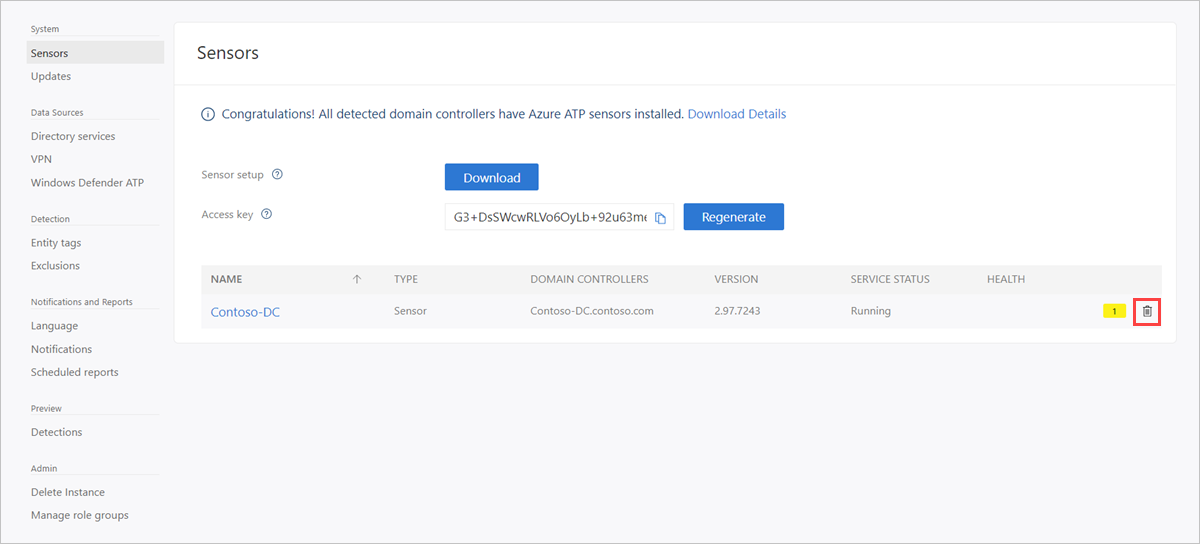
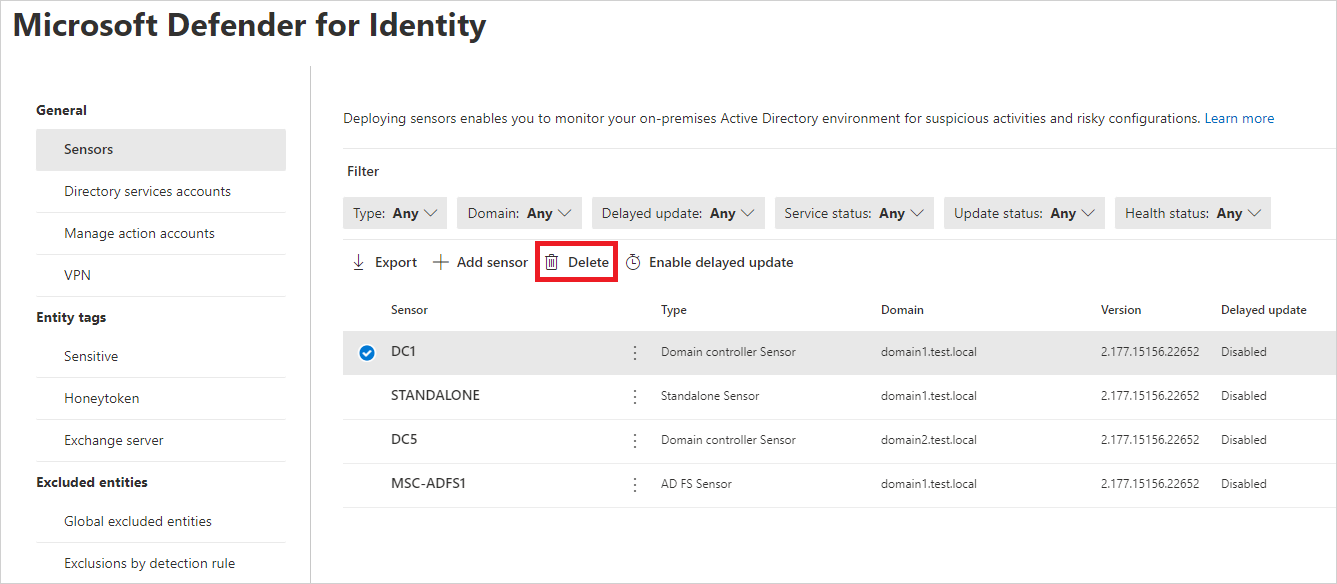
april 7 update 2

diff --git a/ATPDocs/health-alerts.md b/ATPDocs/health-alerts.md
@@ -28,7 +28,7 @@ The [!INCLUDE [Product long](includes/product-long.md)] Health Center lets you k
 
 |Alert|Description|Resolution|Severity|
 |----|----|----|----|
-|The credentials for the directory services user account are incorrect.|This impacts sensors' ability to detect activities using LDAP queries against domain controllers.|- For a **standard** AD accounts: Verify that the username, password, and domain in the **Directory services** configuration page are correct.<br>- For **group Managed Service Accounts:** Verify that the username and domain in the **Directory Services** configuration page are correct. Also check all the other **gMSA account** prerequisites described on the [Connect to your Active Directory Forest](install-step2.md#prerequisites) page.|Medium|
+|The credentials for the directory services user account are incorrect.|This impacts sensors' ability to detect activities using LDAP queries against domain controllers.|- For a **standard** AD accounts: Verify that the username, password, and domain in the **Directory services** configuration page are correct.<br>- For **group Managed Service Accounts:** Verify that the username and domain in the **Directory Services** configuration page are correct. Also check all the other **gMSA account** prerequisites described on the [Directory Service account recommendations](directory-service-accounts.md) page.|Medium|
 
 ## Low success rate of active name resolution
 
@@ -46,19 +46,19 @@ The [!INCLUDE [Product long](includes/product-long.md)] Health Center lets you k
 
 |Alert|Description|Resolution|Severity|
 |----|----|----|----|
-|The read-only user password, used to perform resolution of entities against Active Directory, is about to expire in less than 30 days.|If the password for this user expires, all the [!INCLUDE [Product short](includes/product-short.md)] sensors stop running and no new data is collected.|[Change the domain connectivity password](modifying-config-dcpassword.md) and then update the password in the [!INCLUDE [Product short](includes/product-short.md)] portal.|Medium|
+|The read-only user password, used to perform resolution of entities against Active Directory, is about to expire in less than 30 days.|If the password for this user expires, all the [!INCLUDE [Product short](includes/product-short.md)] sensors stop running and no new data is collected.|Change the domain connectivity password and then [update the Directory Service account](directory-service-accounts.md#configure-directory-service-account-in-microsoft-365-defender) password.|Medium|
 
 ## Read-only user password expired
 
 |Alert|Description|Resolution|Severity|
 |----|----|----|----|
-|The read-only user password, used to get directory data, expired.|All the [!INCLUDE [Product short](includes/product-short.md)] sensors stop running (or will stop running soon) and no new data is collected.|[Change the domain connectivity password](modifying-config-dcpassword.md) and then update the password in the [!INCLUDE [Product short](includes/product-short.md)] portal.|High|
+|The read-only user password, used to get directory data, expired.|All the [!INCLUDE [Product short](includes/product-short.md)] sensors stop running (or will stop running soon) and no new data is collected.|Change the domain connectivity password and then [update the Directory Service account](directory-service-accounts.md#configure-directory-service-account-in-microsoft-365-defender) password.|High|
 
 ## Sensor outdated
 
 |Alert|Description|Resolution|Severity|
 |----|----|----|----|
-|A [!INCLUDE [Product short](includes/product-short.md)] sensor is outdated.|A [!INCLUDE [Product short](includes/product-short.md)] sensor is running a version that can't communicate with the [!INCLUDE [Product short](includes/product-short.md)] cloud infrastructure.|Manually update the sensor and check to see why the sensor isn't automatically updating. If this doesn't work, download the latest sensor installation package and uninstall and reinstall the sensor. For more information, see [Installing the [!INCLUDE [Product short](includes/product-short.md)] sensor](install-step4.md).|Medium|
+|A [!INCLUDE [Product short](includes/product-short.md)] sensor is outdated.|A [!INCLUDE [Product short](includes/product-short.md)] sensor is running a version that can't communicate with the [!INCLUDE [Product short](includes/product-short.md)] cloud infrastructure.|Manually update the sensor and check to see why the sensor isn't automatically updating. If this doesn't work, download the latest sensor installation package and uninstall and reinstall the sensor. For more information, see [Download the Microsoft Defender for Identity sensor](download-sensor.md) and [Install the Microsoft Defender for Identity sensor](install-sensor.md).|Medium|
 
 ## Sensor reached a memory resource limit
 
@@ -76,7 +76,7 @@ The [!INCLUDE [Product long](includes/product-long.md)] Health Center lets you k
 
 |Alert|Description|Resolution|Severity|
 |----|----|----|----|
-|There has been no communication from the [!INCLUDE [Product short](includes/product-short.md)] sensor. The default time span for this alert is 5 minutes.|Network traffic is no longer captured by the network adapter on the [!INCLUDE [Product short](includes/product-short.md)] sensor. This impacts ATA's ability to detect suspicious activities, since network traffic won't be able to reach the [!INCLUDE [Product short](includes/product-short.md)] cloud service.|Check that the port used for the communication between the [!INCLUDE [Product short](includes/product-short.md)] sensor and [!INCLUDE [Product short](includes/product-short.md)] cloud service is not blocked by any routers or firewalls.|Medium|
+|There has been no communication from the [!INCLUDE [Product short](includes/product-short.md)] sensor. The default time span for this alert is 5 minutes.|Network traffic is no longer captured by the network adapter on the [!INCLUDE [Product short](includes/product-short.md)] sensor. This impacts Defender for Identity's ability to detect suspicious activities, since network traffic won't be able to reach the [!INCLUDE [Product short](includes/product-short.md)] cloud service.|Check that the port used for the communication between the [!INCLUDE [Product short](includes/product-short.md)] sensor and [!INCLUDE [Product short](includes/product-short.md)] cloud service is not blocked by any routers or firewalls.|Medium|
 
 ## Some domain controllers are unreachable by a sensor
 

diff --git a/ATPDocs/uninstall-sensor.md b/ATPDocs/uninstall-sensor.md
@@ -1,7 +1,7 @@
 ---
 title: Uninstall Microsoft Defender for Identity sensor
 description: This article describes how to uninstall the Microsoft Defender for Identity sensor from domain controllers.
-ms.date: 12/22/2020
+ms.date: 04/07/2022
 ms.topic: how-to
 ---
 
@@ -17,7 +17,7 @@ This article describes how to uninstall the [!INCLUDE [Product long](includes/pr
 
 The following steps describe how to uninstall a sensor from a domain controller.
 
-1. Sign in to the domain controller with local administrator privileges.
+1. Sign in to the domain controller with administrative privileges.
 1. From the Windows **Start** menu, select **Settings** > **Control Panel** > **Add/ Remove Programs**.
 1. Select the sensor installation, select **Uninstall**, and follow the instructions to remove the sensor.
 
@@ -25,8 +25,8 @@ The following steps describe how to uninstall a sensor from a domain controller.
 
 This scenario can occur when a domain controller was deleted without first uninstalling the sensor, and the sensor still appears in the [!INCLUDE [Product short](includes/product-short.md)] portal.
 
-1. In the [!INCLUDE [Product short](includes/product-short.md)] portal, go to **Configuration** and under the **System** section, select **Sensors**.
-1. Locate the orphaned sensor and, at the end of the row, select **Delete** (trash can icon).
+1. In [Microsoft 365 Defender](https://security.microsoft.com), go to **Settings** and then **Identities**. Select the **Sensors** tab, which displays all your Defender for Identity sensors.
+1. Locate the orphaned sensor and select **Delete** (trash can icon).
 
     ![Delete orphaned [!INCLUDE [Product short.](includes/product-short.md)] sensor from sensors page](media/delete-orphaned-sensor.png)
 
@@ -34,9 +34,9 @@ This scenario can occur when a domain controller was deleted without first unins
 
 This scenario may occur after an in-place sensor upgrade, and the sensor appears twice in the [!INCLUDE [Product short](includes/product-short.md)] portal.
 
-1. In the [!INCLUDE [Product short](includes/product-short.md)] portal, go to **Configuration** and under the **System** section, select **Sensors**.
-1. Locate the orphaned sensor and, at the end of the row, select **Delete** (trash can icon).
+1. In [Microsoft 365 Defender](https://security.microsoft.com), go to **Settings** and then **Identities**. Select the **Sensors** tab, which displays all your Defender for Identity sensors.
+1. Locate the orphaned sensor and select **Delete** (trash can icon).
 
-## See Also
+## See also
 
-- [Uninstall the [!INCLUDE [Product short](includes/product-short.md)] sensor silently](silent-installation.md#uninstall-the-defender-for-identity-sensor-silently)
+- [Manage and update Microsoft Defender for Identity sensors](sensor-settings.md)

diff --git a/ATPDocs/sensor-health.md b/ATPDocs/sensor-health.md
@@ -1,7 +1,7 @@
 ---
 title: Monitoring domain controllers and installed sensors installed on your domain controllers using Microsoft Defender for Identity
 description: Describes how to monitor Microsoft Defender for Identity sensors and sensor coverage using Defender for Identity
-ms.date: 10/27/2020
+ms.date: 04/07/2022
 ms.topic: how-to
 ---
 
